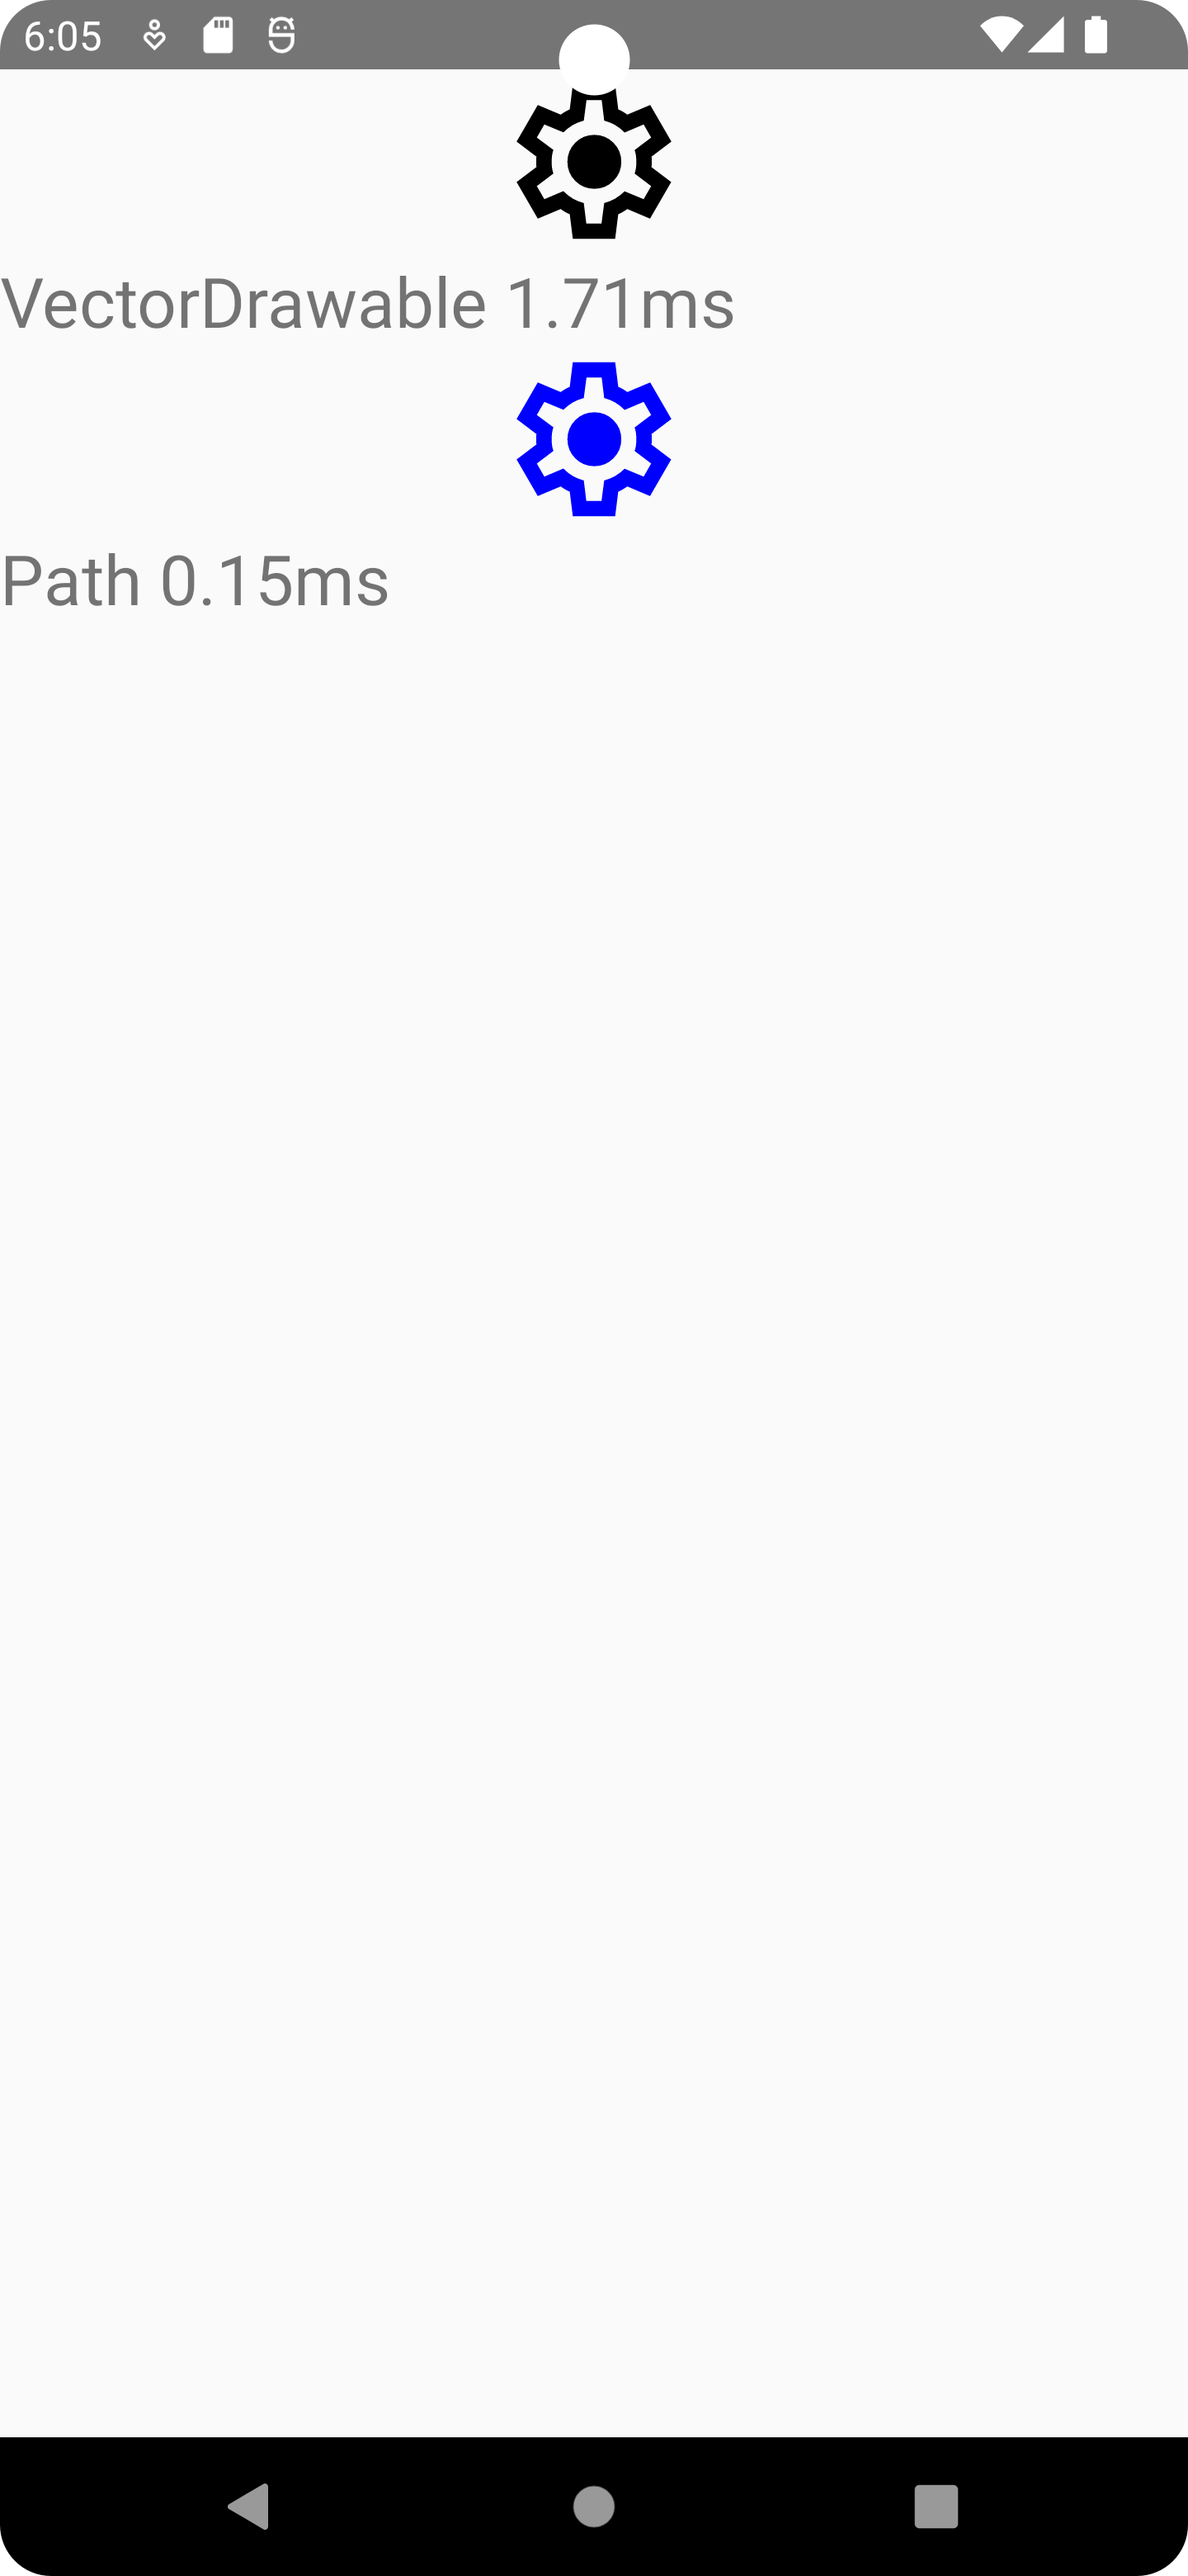
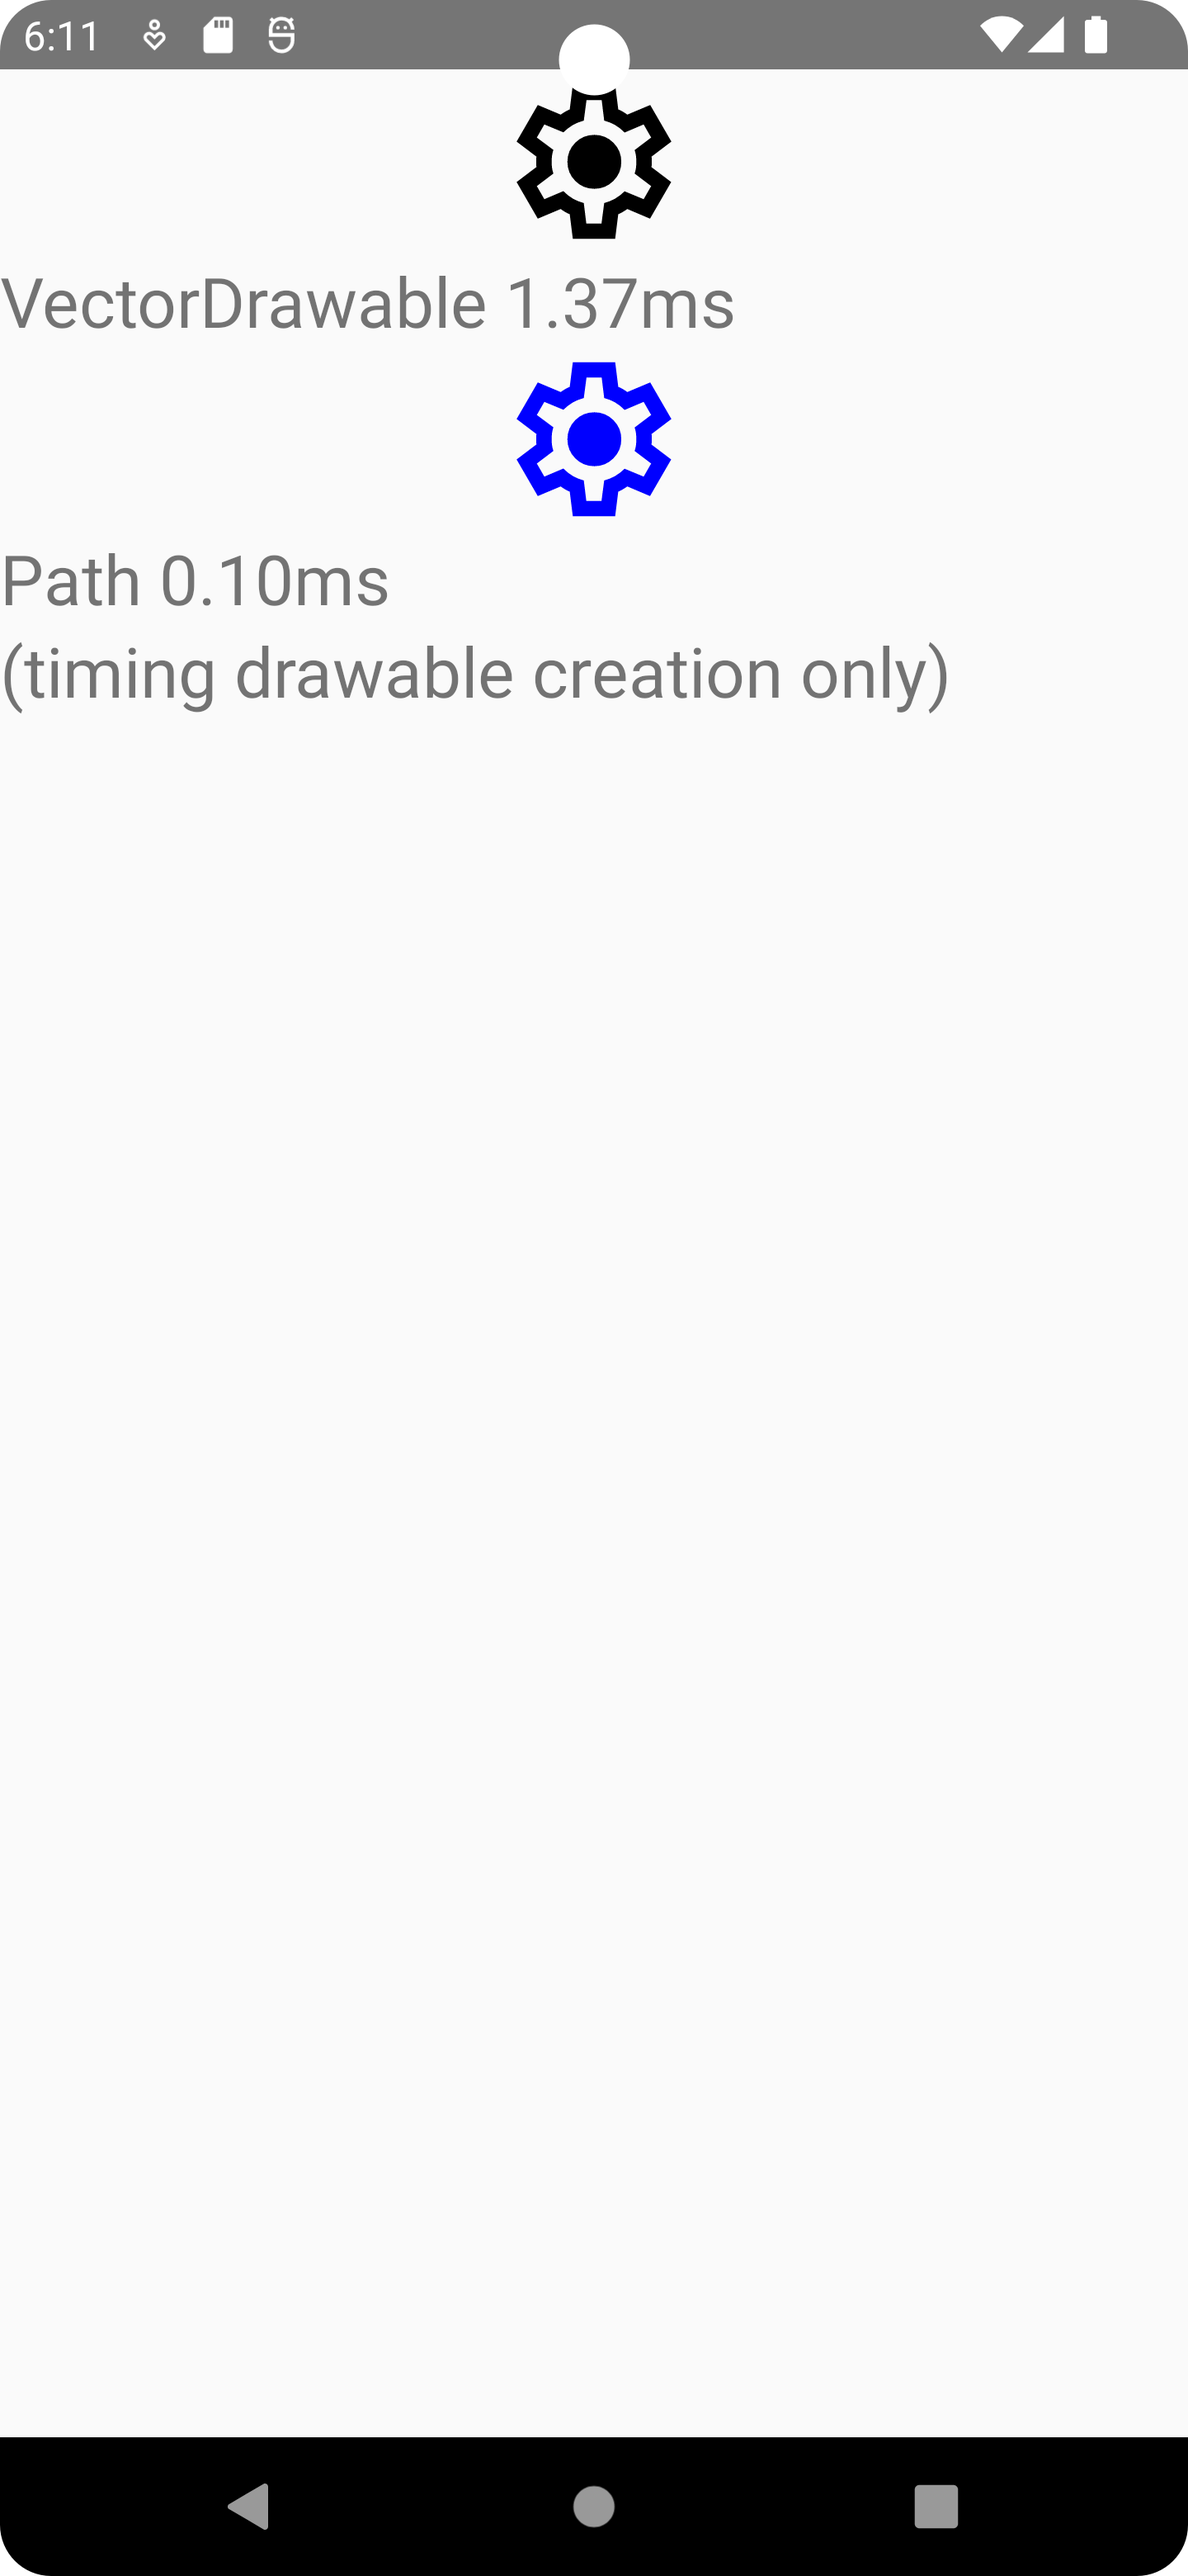
tweak

diff --git a/app/src/main/java/com/google/fonts/icons/lollipopicons/MainActivity.kt b/app/src/main/java/com/google/fonts/icons/lollipopicons/MainActivity.kt
@@ -193,6 +193,8 @@ class MainActivity : ComponentActivity() {
         addImage(layout, path);
         addText(layout, String.format("Path %.2fms", pt / 1000_000.0))
 
+        addText(layout, "(timing drawable creation only)")
+
         setContentView(layout)
     }
 }
